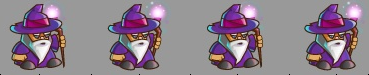
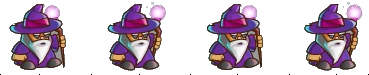
Started implementing dictionary of characters and states. Cleaned animations

diff --git a/BetterGameWithObj/Page.cs b/BetterGameWithObj/Page.cs
@@ -7,22 +7,23 @@ namespace BetterGameWithObj
 {
     class Page
     {
-        Texture2D texture;
+        public Texture2D Texture { get; set; }
 
         public List<int> blackip = new List<int>();
         public List<Vector2> originsList = new List<Vector2>();
         public List<Rectangle> rectangles = new List<Rectangle>();
         public Page(Characters name, States state)
         {
-            this.texture = Globals.contentManager.Load<Texture2D>(name.ToString() + "/" + state.ToString());
-            Color[] c = new Color[texture.Width];
-            texture.GetData<Color>(0, 
-                new Rectangle(0, texture.Height-1, texture.Width, 1),
-                c, 0, texture.Width);
+            this.Texture = Globals.contentManager.Load<Texture2D>(name.ToString() + 
+                "/" + state.ToString());
+            Color[] c = new Color[Texture.Width];
+            Texture.GetData<Color>(0, 
+                new Rectangle(0, Texture.Height-1, Texture.Width, 1),
+                c, 0, Texture.Width);
 
             #region Black IP's
 
-            for (int i = 0; i < texture.Width; i++)
+            for (int i = 0; i < Texture.Width; i++)
             {
                 if (c[i] == c[0])
                 {
@@ -35,17 +36,37 @@ namespace BetterGameWithObj
             for (int i = 2; i < blackip.Count; i+=2)
             {
                 originsList.Add(new Vector2(blackip[i] - blackip[i - 1],
-                    texture.Height)); // CHECK WTF IS GOING ON
-            } 
+                    Texture.Height)); // CHECK WTF IS GOING ON
+            }
             #endregion
 
-            for (int i = 0; i < blackip.Count-2; i+=2)
+            #region Rectangles
+            for (int i = 0; i < blackip.Count - 2; i += 2)
             {
                 rectangles.Add(new Rectangle(blackip[i], 0,
                     blackip[i + 2] - blackip[i],
-                    texture.Height-1));
+                    Texture.Height - 1));
             }
+            #endregion
+
+            #region Clear Background Color
+            c = new Color[Texture.Width * Texture.Height];
             
+            Texture.GetData<Color>(c);
+
+            Color trans = c[0];
+
+            for (int i = 0; i < c.Length; i++)
+            {
+                if (c[i]== trans)
+                {
+                    c[i] = Color.Transparent;
+                }
+            }
+            Texture.SetData<Color>(c);
+
+            #endregion
+
         }
     }
 }

diff --git a/BetterGameWithObj/Dictionary.cs b/BetterGameWithObj/Dictionary.cs
@@ -1,0 +1,31 @@
+using System;
+using System.Collections.Generic;
+using System.Linq;
+using System.Text;
+using System.Threading.Tasks;
+using System.IO;
+
+namespace BetterGameWithObj
+{
+    static class Dictionary
+    {
+        public static Dictionary<Characters, Dictionary<States, Page>> dic = 
+            new Dictionary<Characters, Dictionary<States, Page>>();
+
+        public static void init()
+        {
+            foreach (Characters character in Enum.GetValues(typeof(Characters)))
+            {
+                foreach (States state in Enum.GetValues(typeof(States)))
+                {
+                    string path = Directory.GetCurrentDirectory() + @"\Content\" + character.ToString() + @"\" + state.ToString() + @".xnb";
+
+                    if (File.Exists(path))
+                    {
+                        dic[character].Add(state, new Page(character, state));
+                    }
+                }
+            }
+        }
+    }
+}

diff --git a/BetterGameWithObj/Drawer.cs b/BetterGameWithObj/Drawer.cs
@@ -7,7 +7,7 @@ namespace BetterGameWithObj
     class Drawer
     {
         #region Data
-        Texture2D texture;
+        public Texture2D Texture { get; set; }
         protected Vector2 position;
         public Rectangle? SourceRectangle { get; set; }
         Color color;
@@ -24,7 +24,7 @@ namespace BetterGameWithObj
             SpriteEffects effects, float layerDepth)
         {
 
-            this.texture = texture;
+            this.Texture = texture;
             this.position = position;
             this.SourceRectangle = sourceRectangle;
             this.color = color;
@@ -52,7 +52,7 @@ namespace BetterGameWithObj
 
         public void Draw()
         {
-            Globals.spriteBatch.Draw(texture, position, SourceRectangle, color,
+            Globals.spriteBatch.Draw(Texture, position, SourceRectangle, color,
                 rotation, Origin, scale, effects, layerDepth);
         }
     }

diff --git a/BetterGameWithObj/Animation.cs b/BetterGameWithObj/Animation.cs
@@ -6,9 +6,11 @@ namespace BetterGameWithObj
 {
     class Animation : Drawer
     {
+        #region Varriables
         Page page;
         int frame; // Defines which rectangle will be taken
-        int paste = 0; // Defines the animation replace speed
+        int paste = 0; // Defines the animation replace speed 
+        #endregion
 
         public Animation(Characters character, States state,
             Vector2 position, Vector2 scale, Color color,
@@ -23,6 +25,7 @@ namespace BetterGameWithObj
         {
             this.SourceRectangle = page.rectangles[frame];
             this.Origin = page.originsList[frame];
+            this.Texture = page.Texture;
             if (paste++ % 10 == 0) // Here you can change the speed of the animation
             {
                 this.frame++;

diff --git a/BetterGameWithObj/Game1.cs b/BetterGameWithObj/Game1.cs
@@ -45,8 +45,12 @@ namespace BetterGameWithObj
             spriteBatch = new SpriteBatch(GraphicsDevice);
 
             Globals.Init(Content, spriteBatch);
+            Dictionary.init();
+
 
             animation = new Animation(Characters.Wizard, States.walk, new Vector2(300), new Vector2(1.4f), Color.White);
+
+            
 
             // TODO: use this.Content to load your game content here
         }
